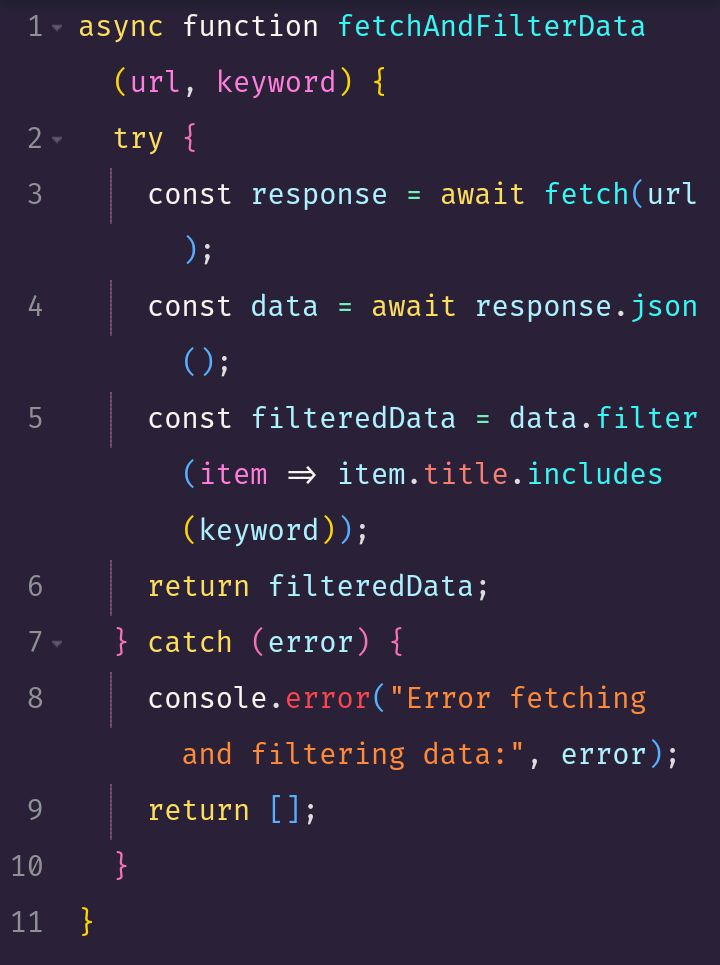
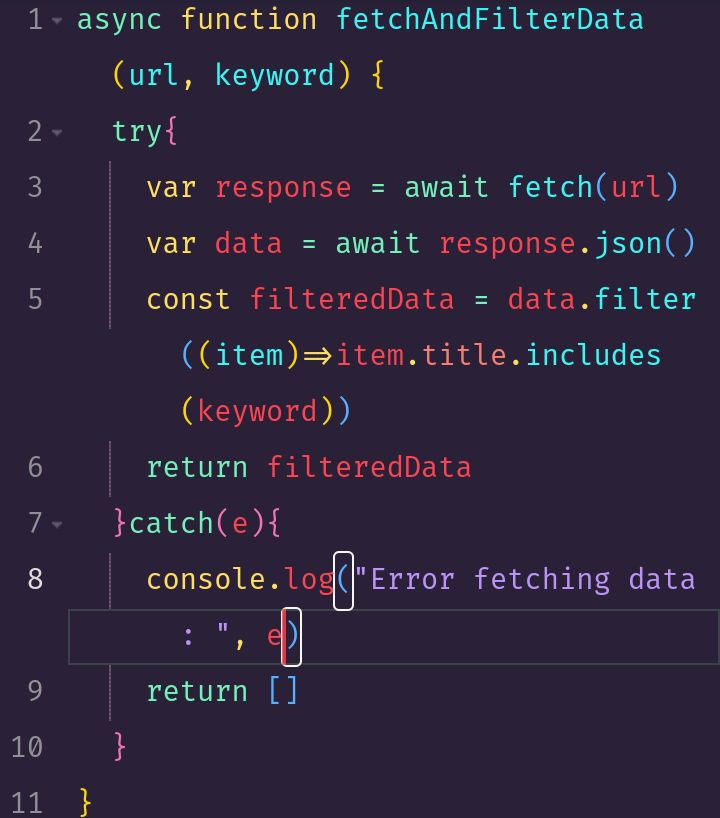
small update

diff --git a/dist/main.js b/dist/main.js
@@ -1,1 +1,1 @@
[2 lines of base64/hex data omitted]

diff --git a/src/style.scss b/src/style.scss
@@ -1,5 +1,5 @@
 .ace-synthwave-theme {
-  color: #ddd; // default color
+  color: #fede5d; // default color
   background: linear-gradient(to bottom, #2a2139 75%, #34294f);
 
   // left side line number area
@@ -69,7 +69,7 @@
    */
   .hljs-keyword,
   .ace_keyword {
-    color: #fede5d;
+    color: #72f1b8;
   }
 
   // example =
@@ -101,8 +101,7 @@
 
   // const abc = "hello"
   // abc will have the color
-  .hljs-title,
-  .ace_identifier {
+  .hljs-title {
     color: #aef1ff;
   }
 
@@ -112,8 +111,8 @@
   }
 
   //in js -> addEventListener etc
-  .ace_support.ace_function.ace_dom {
-    color: #36f9f6; // if not provided it will take color of ace_support.ace_function
+  .ace_identifier, .ace_support.ace_function.ace_dom {
+    color: #fe4450; // if not provided it will take color of ace_support.ace_function
   }
 
   .ace_support{
@@ -151,7 +150,7 @@
   // let const var also =>
   .ace_storage,
   .ace_storage.ace_type {
-    color: #f8f8f0;
+    color: #fede5d;
   }
 
   .ace_invalid {
@@ -166,7 +165,7 @@
 
   // string
   .ace_string {
-    color: #ff8b39;
+    color: #bd93f9;
   }
 
   // comment
@@ -190,7 +189,7 @@
   // function parameters (abc) =>
   .hljs-params,
   .ace_variable.ace_parameter {
-    color: #ff7edb;
+    color: #36f9f6;
     font-style: italic;
   }
 
